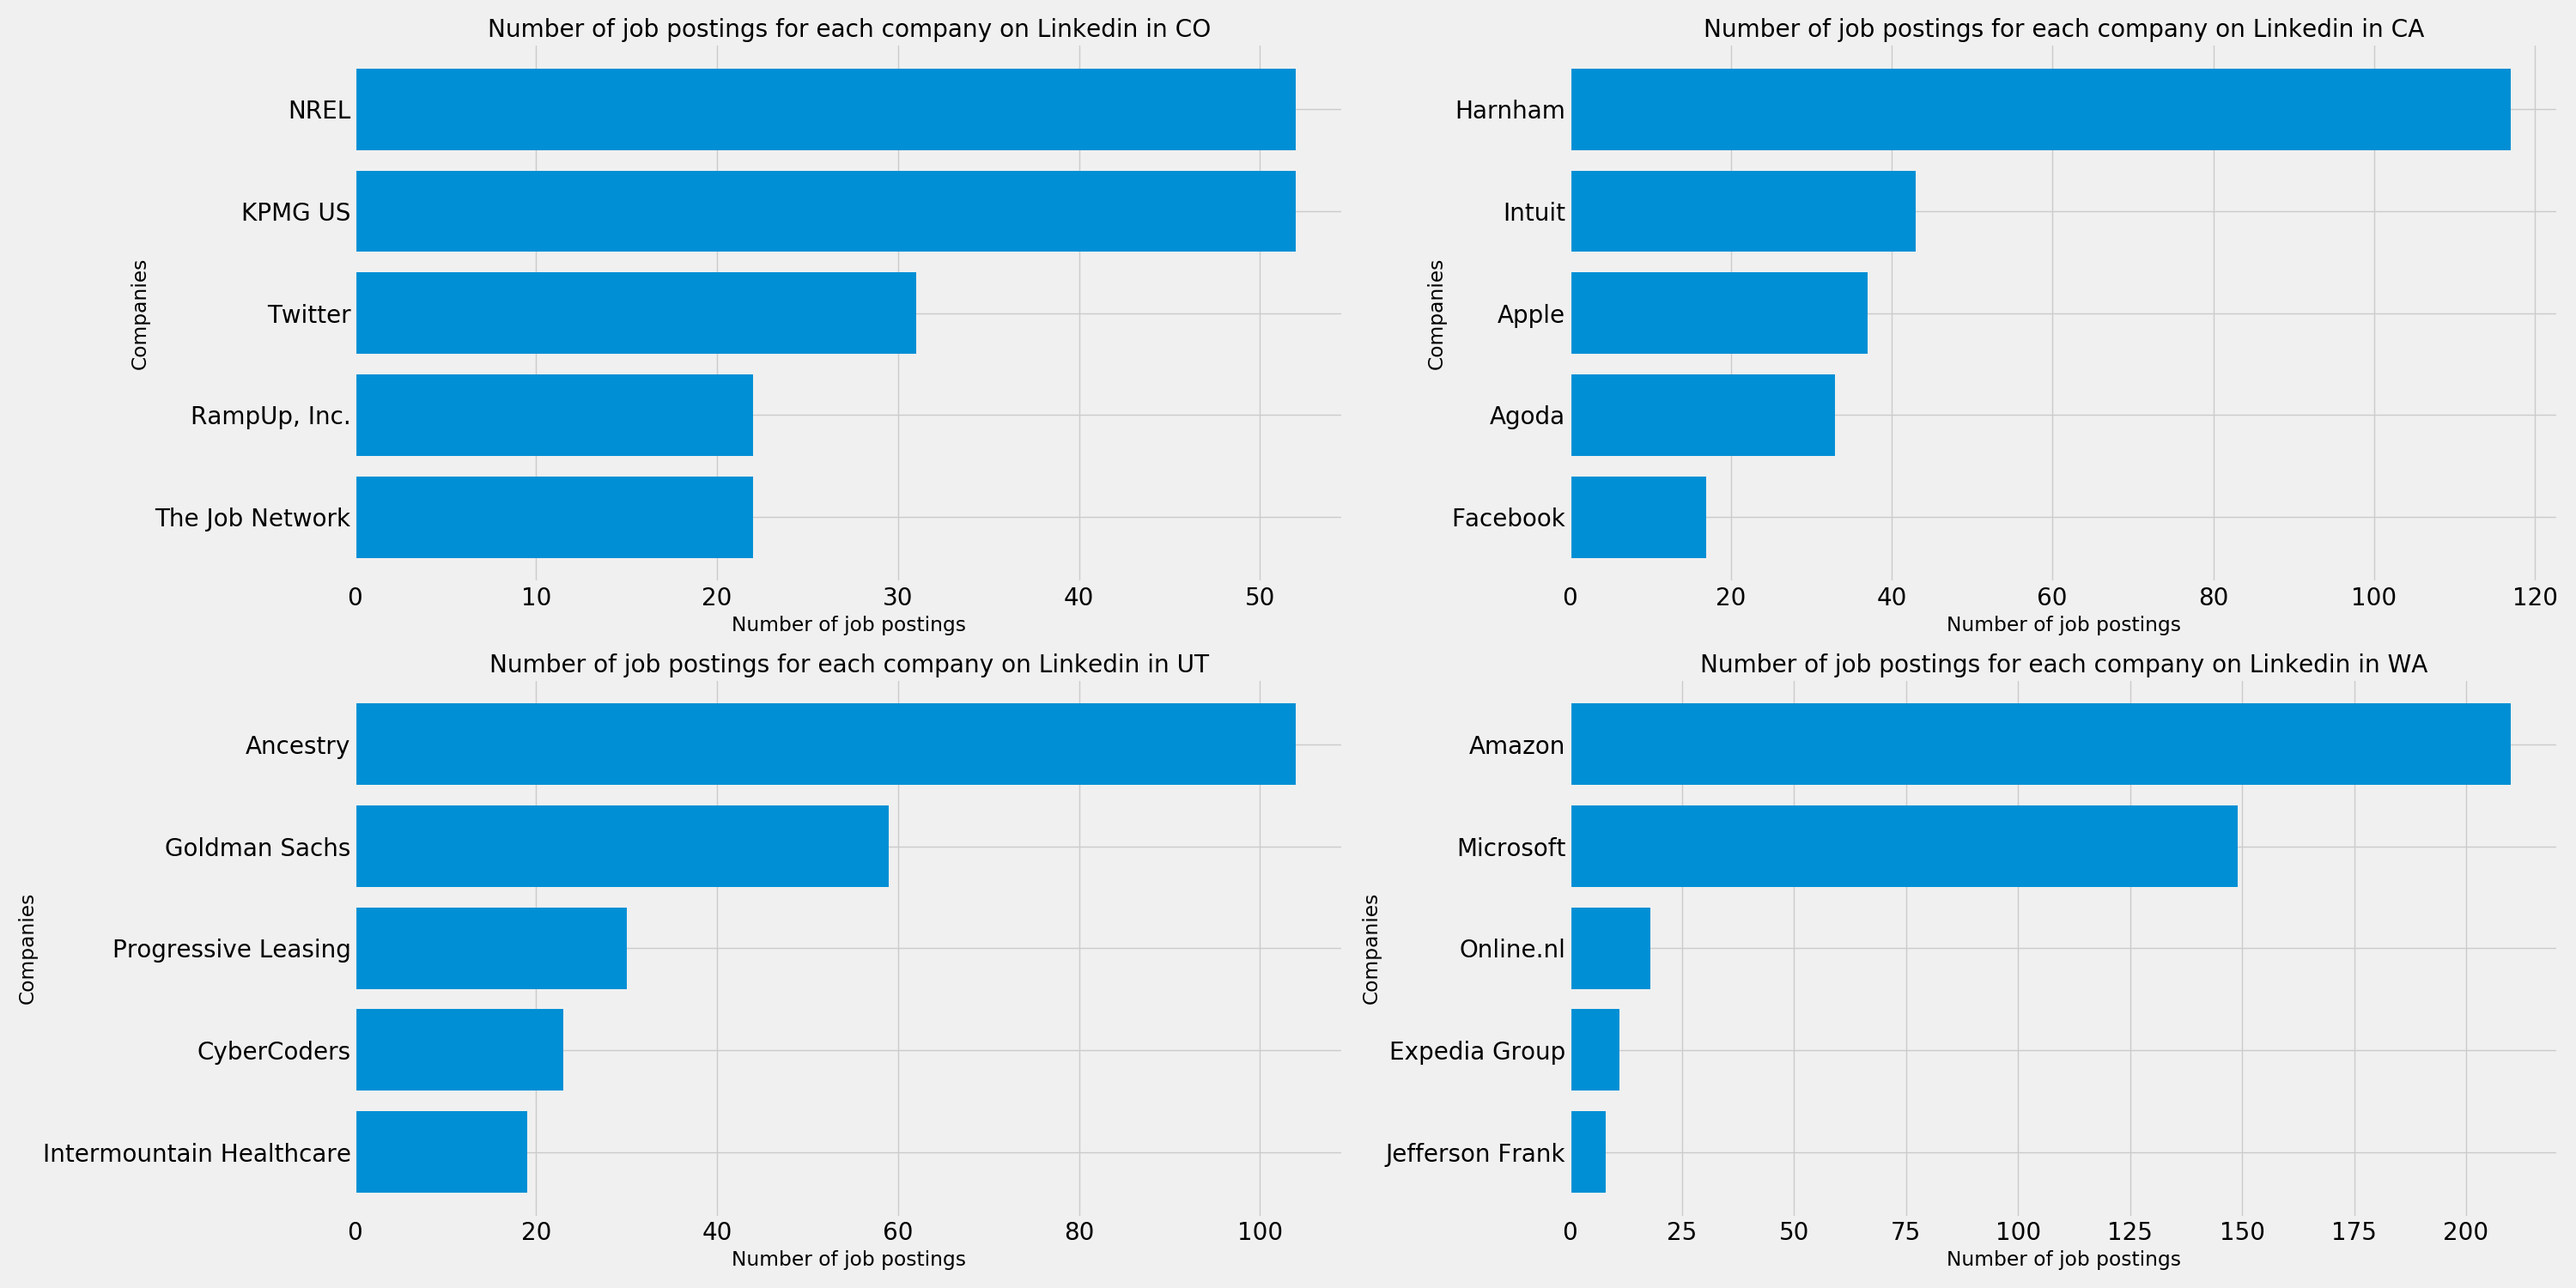
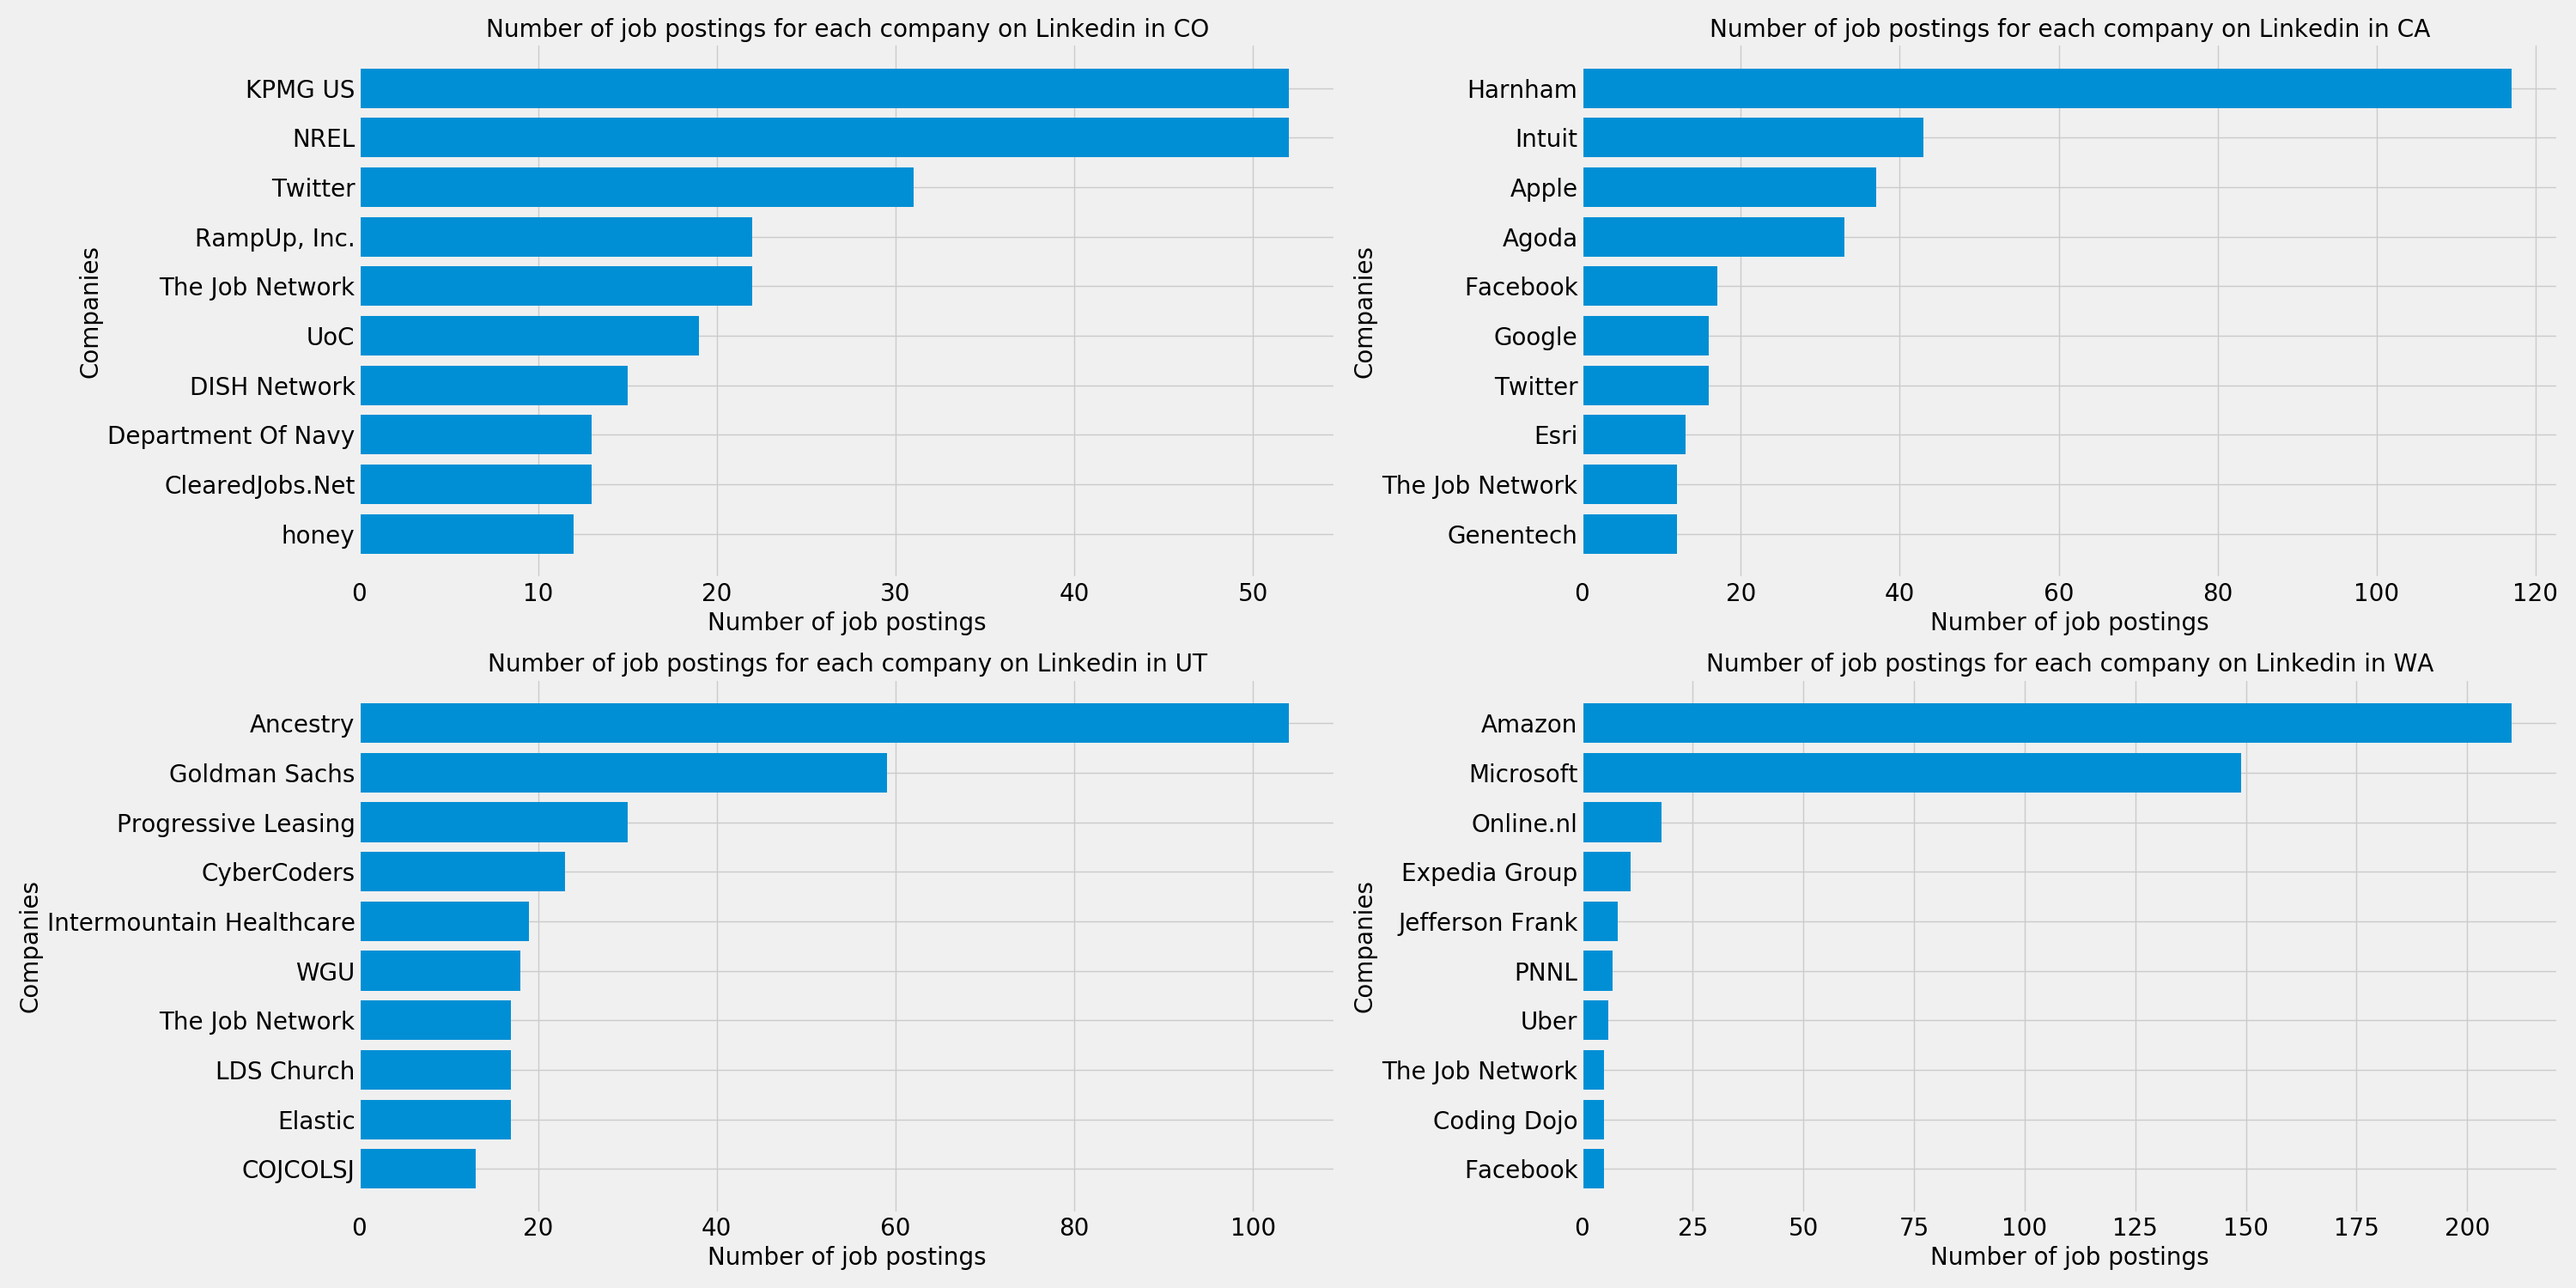
Messing with last graph

diff --git a/src/graphing_eda.py b/src/graphing_eda.py
@@ -93,7 +93,7 @@ plt.savefig('../imgs/linkedin_top_companies_longest_descriptions.png')
 
 def graph_top10_companies(state_id, ax):
     df_all_state = df_all[df_all['State'] == state_id]
-    companies_state = df_all_state['Company'].value_counts().index[:5]
+    companies_state = df_all_state['Company'].value_counts().index[:10]
     companies_state = list(companies_state)
 
     for idx, comp in enumerate(companies_state):
@@ -117,13 +117,13 @@ def graph_top10_companies(state_id, ax):
         
     companies_state = companies_state[::-1]
 
-    jobs_state = df_all_state['Company'].value_counts().values[:5]
+    jobs_state = df_all_state['Company'].value_counts().values[:10]
     jobs_state = jobs_state[::-1]
 
     ax.barh(companies_state, jobs_state)
 
-    ax.set_xlabel('Number of job postings')
-    ax.set_ylabel('Companies')
+    ax.set_xlabel('Number of job postings', fontsize=20)
+    ax.set_ylabel('Companies', fontsize=20)
     ax.set_title(f'Number of job postings for each company on Linkedin in {state_id}')
     ax.tick_params(axis='both', labelsize=20)
 
